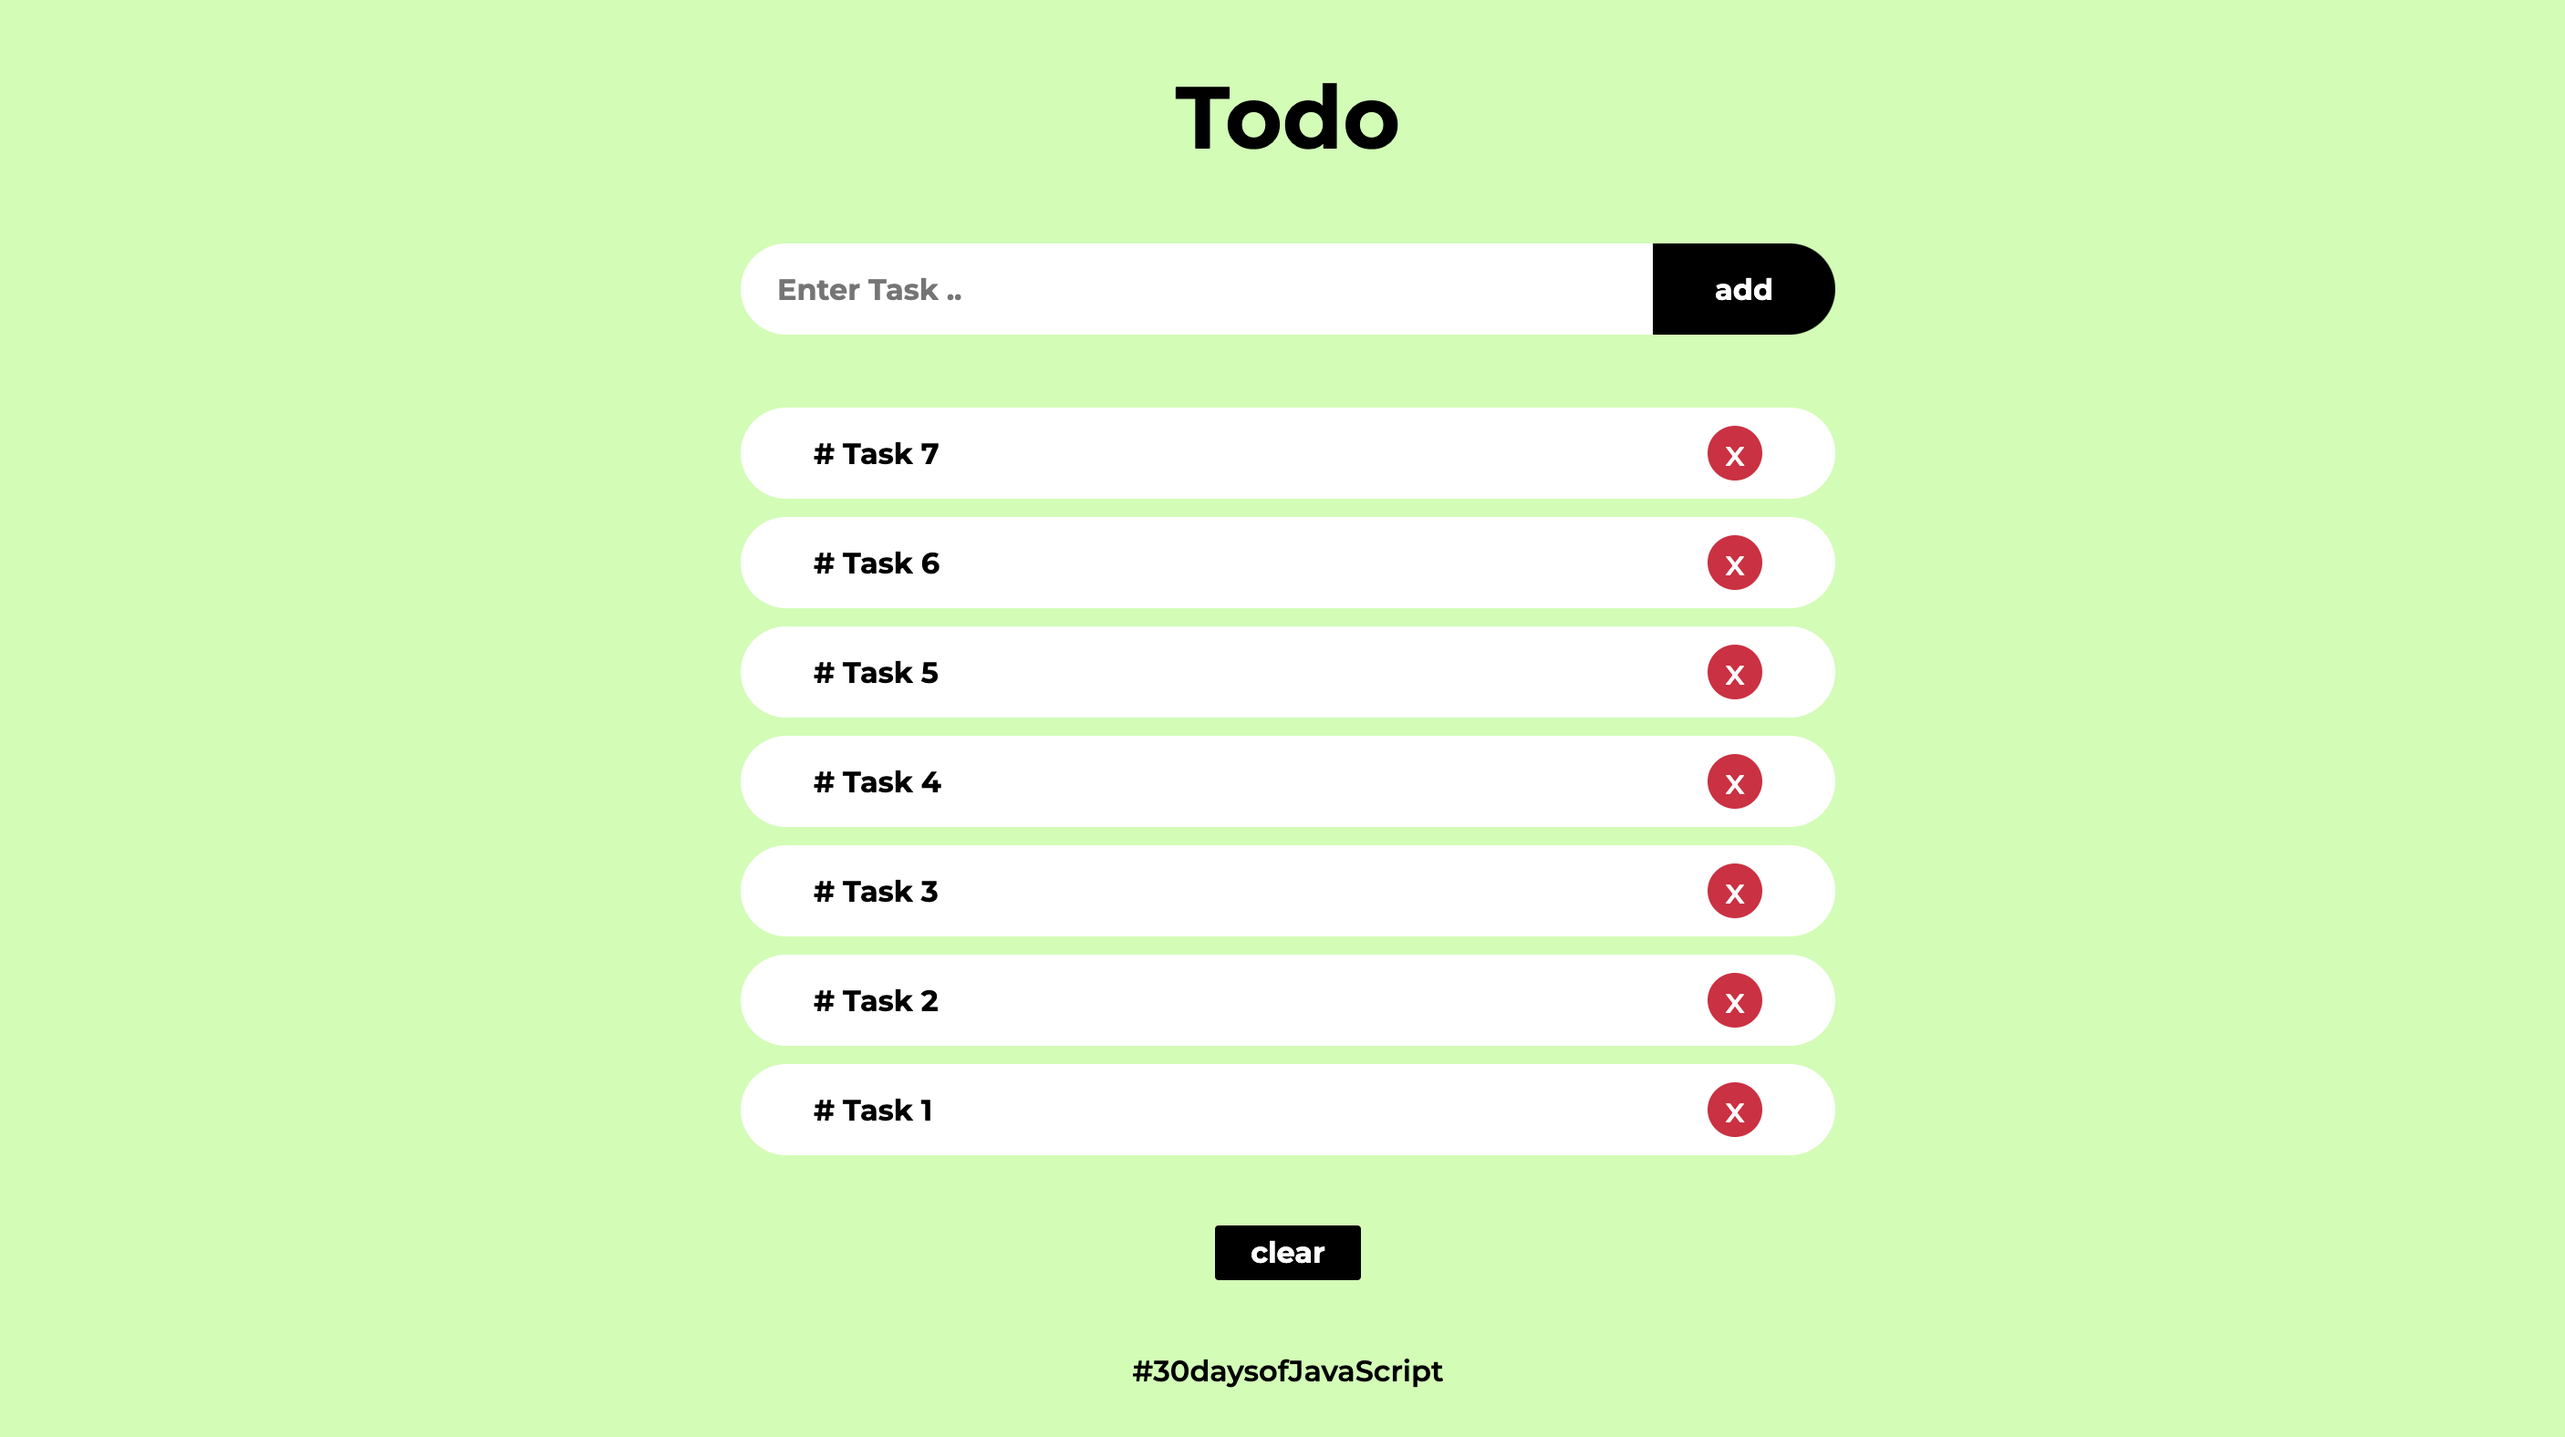
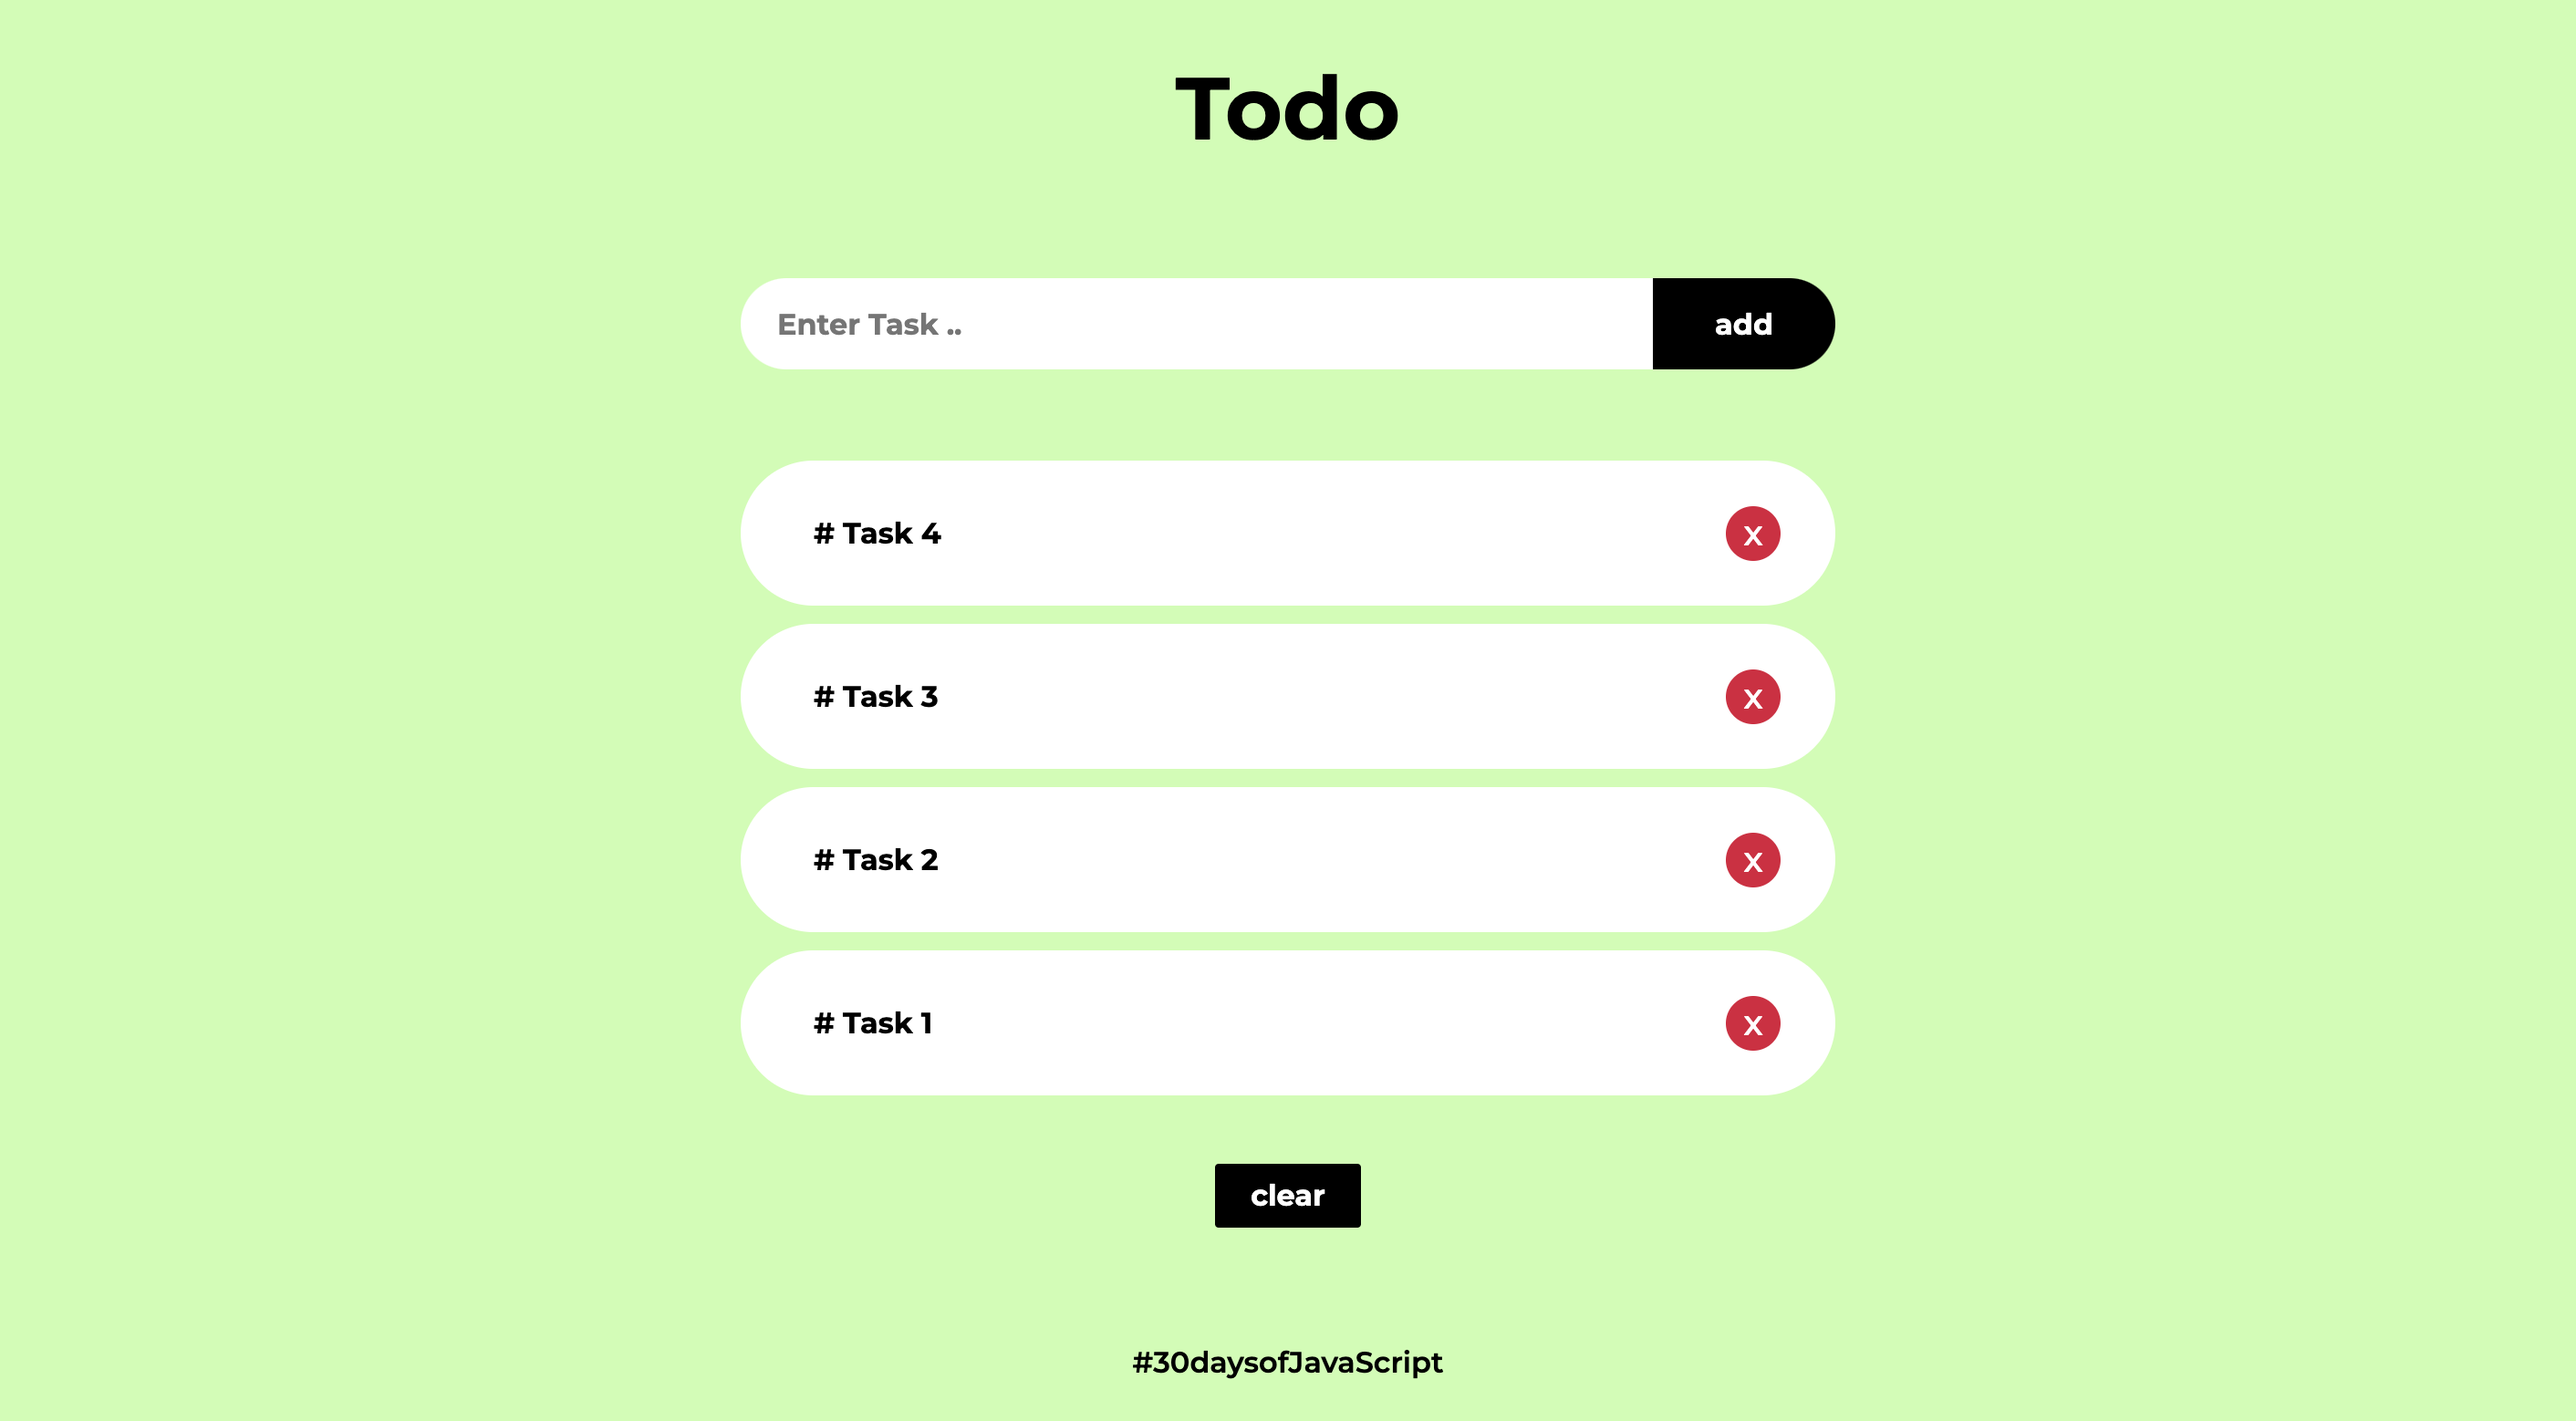
Added local storage functionality to todo app

Changed region(s): [[0.2784, 0.154, 0.7425, 0.8935], [0.4331, 0.9243, 0.5569, 0.9859], [0.4641, 0.0616, 0.5569, 0.1232]]

diff --git a/Projects/todo/style.css b/Projects/todo/style.css
@@ -51,6 +51,7 @@ body{
   border: none;
   padding-left: 20px;
   font-size: 1rem;
+  font-weight: 700;
 }
 .addbtn{
   position: relative;
@@ -63,29 +64,46 @@ body{
   display: flex;
   justify-content: center;
   align-items: center;
+  font-weight: 700;
 }
 .tasksdisplayarea{
   position: relative;
   margin-top: 40px;
   width: 100%;
-  height: 60vh;
+  height: 45vh;
   overflow-y: auto;
   display: flex;
   justify-content: flex-start;
   align-items: center;
   flex-direction: column;
   gap: 10px;
+  padding-top: 10px;
 }
 .task{
   position: relative;
   width: 600px;
-  padding-block: 10px;
+  padding-block: 20px;
   background-color: white;
   border-radius: 40px;
   display: flex;
   justify-content: space-between;
-  padding-inline: 40px;
   align-items: center;
+  padding-inline: 30px;
+}
+.taskname{
+  position: relative;
+  width: 500px;
+  padding: 10px;
+  display: flex;
+  justify-content: flex-start;
+  align-items: center;
+}
+.taskname h2{
+  position: relative;
+  font-size: 1rem;
+  font-weight: 500;
+  font-weight: 700;
+  overflow-wrap: break-word;
 }
 .del{
   position: relative;
@@ -113,6 +131,7 @@ body{
   justify-content: center;
   align-items: center;
   margin-top: 30px;
+  font-weight: 700;
 }
 .foothead{
   position: relative;
@@ -128,7 +147,7 @@ body{
     padding: 0px;
   }
   .cont{
-    margin-top: 5px;
+    margin-top: 20px;
   }
   .cont h3{
     margin-top: 0px;
@@ -138,23 +157,33 @@ body{
     width: 90%;
   }
   .maincont{
-    margin: 20px;
+    margin: 10px;
     height: 80vh;
   }
   .task{
     width: 100%;
-    height: 50px;
-  }
-  .task h4{
-    font-weight: 500;
   }
   .tasksdisplayarea{
     margin-top: 20px;
+    height: 57vh;
+  }
+  .taskname{
+    position: relative;
+    width: 270px;
+  }
+  .taskname h2{
+    font-size: 0.8rem;
   }
   .del{
     width: 25px;
     height: 25px;
     font-size: 0.8rem;
     border-radius: 12.5px;
+  }
+  .taskname{
+    padding-block: 10px;
+  }
+  .foothead{
+    font-size: 0.7rem;
   }
 }

diff --git a/Projects/todo/script.js b/Projects/todo/script.js
@@ -1,43 +1,58 @@
-let tasks = [];
+let tasks;
 let taskinp = document.querySelector(".taskinp");
 let addbtn = document.querySelector(".addbtn");
 let tasksdisplayarea = document.querySelector(".tasksdisplayarea");
 let clear = document.querySelector(".clear");
-let uid = 0;
+let uid = localStorage.getItem("uid")
+  ? parseInt(localStorage.getItem("uid"))
+  : 0;
+
+if (localStorage.getItem("data")) {
+  tasks = JSON.parse(localStorage.getItem("data"));
+} else {
+  tasks = [];
+  localStorage.setItem("data", JSON.stringify(tasks));
+}
+render();
+
+function updatelocalstorage() {
+  localStorage.setItem("data", JSON.stringify(tasks));
+}
+
 addbtn.addEventListener("click", () => {
   let temp = taskinp.value;
-  if (temp != "") {
+  taskinp.value = "";
+  if (temp !== "") {
     let tempObj = { id: uid, t: temp };
     uid++;
     tasks.push(tempObj);
     render();
+    updatelocalstorage();
+    localStorage.setItem("uid", uid);
   } else {
     console.log("Enter the task");
   }
 });
+
 function render() {
   let html = ``;
   for (let i = tasks.length - 1; i >= 0; i--) {
     html += `<div class="task">
-            <h4>${tasks[i].t}</h4>
-            <div class="del" onclick="deleter(${tasks[i].id})">x</div>
-          </div>`;
+              <div class="taskname"><h2>${tasks[i].t}</h2></div>
+              <div class="del" onclick="deleter(${tasks[i].id})">x</div>
+            </div>`;
   }
   tasksdisplayarea.innerHTML = html;
 }
 
 function deleter(did) {
-  let modifiedtasks = [];
-  for (let i = 0; i < tasks.length; i++) {
-    if (did != String(tasks[i].id)) {
-      modifiedtasks.push(tasks[i]);
-    }
-  }
-  tasks = modifiedtasks;
+  tasks = tasks.filter((task) => task.id !== did);
   render();
+  updatelocalstorage();
 }
 
 clear.addEventListener("click", () => {
   tasks = [];
   render();
+  updatelocalstorage();
 });

diff --git a/Projects/todo/index.html b/Projects/todo/index.html
@@ -16,8 +16,6 @@
         </div>
         <div class="tasksdisplayarea">
           
-
-          
         </div>
         <div class="clear">clear</div>
       </div>
